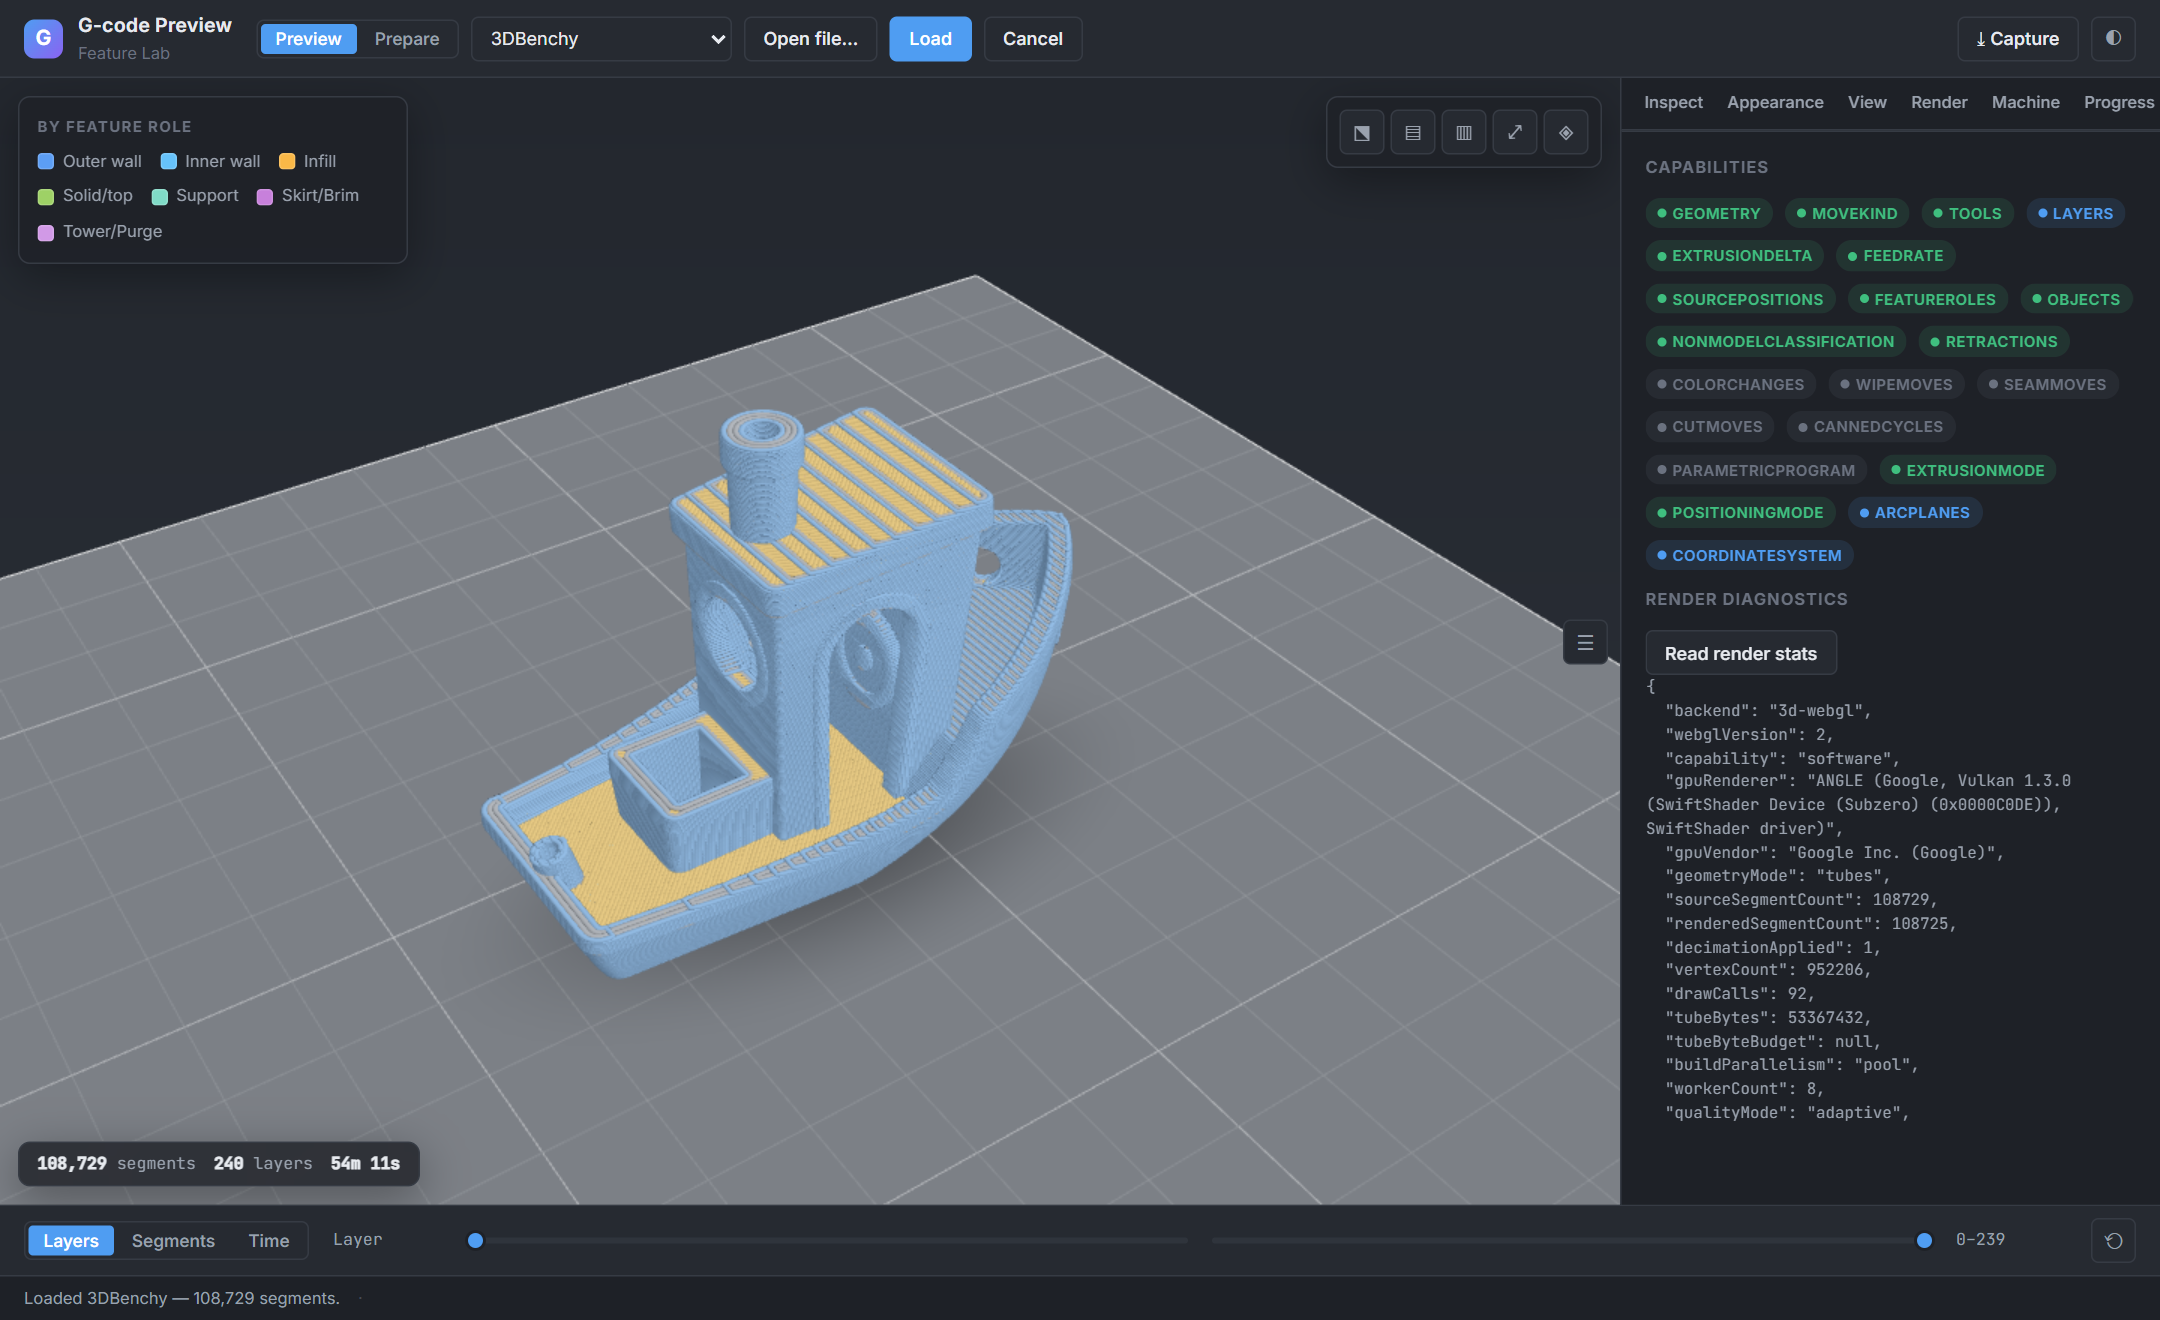
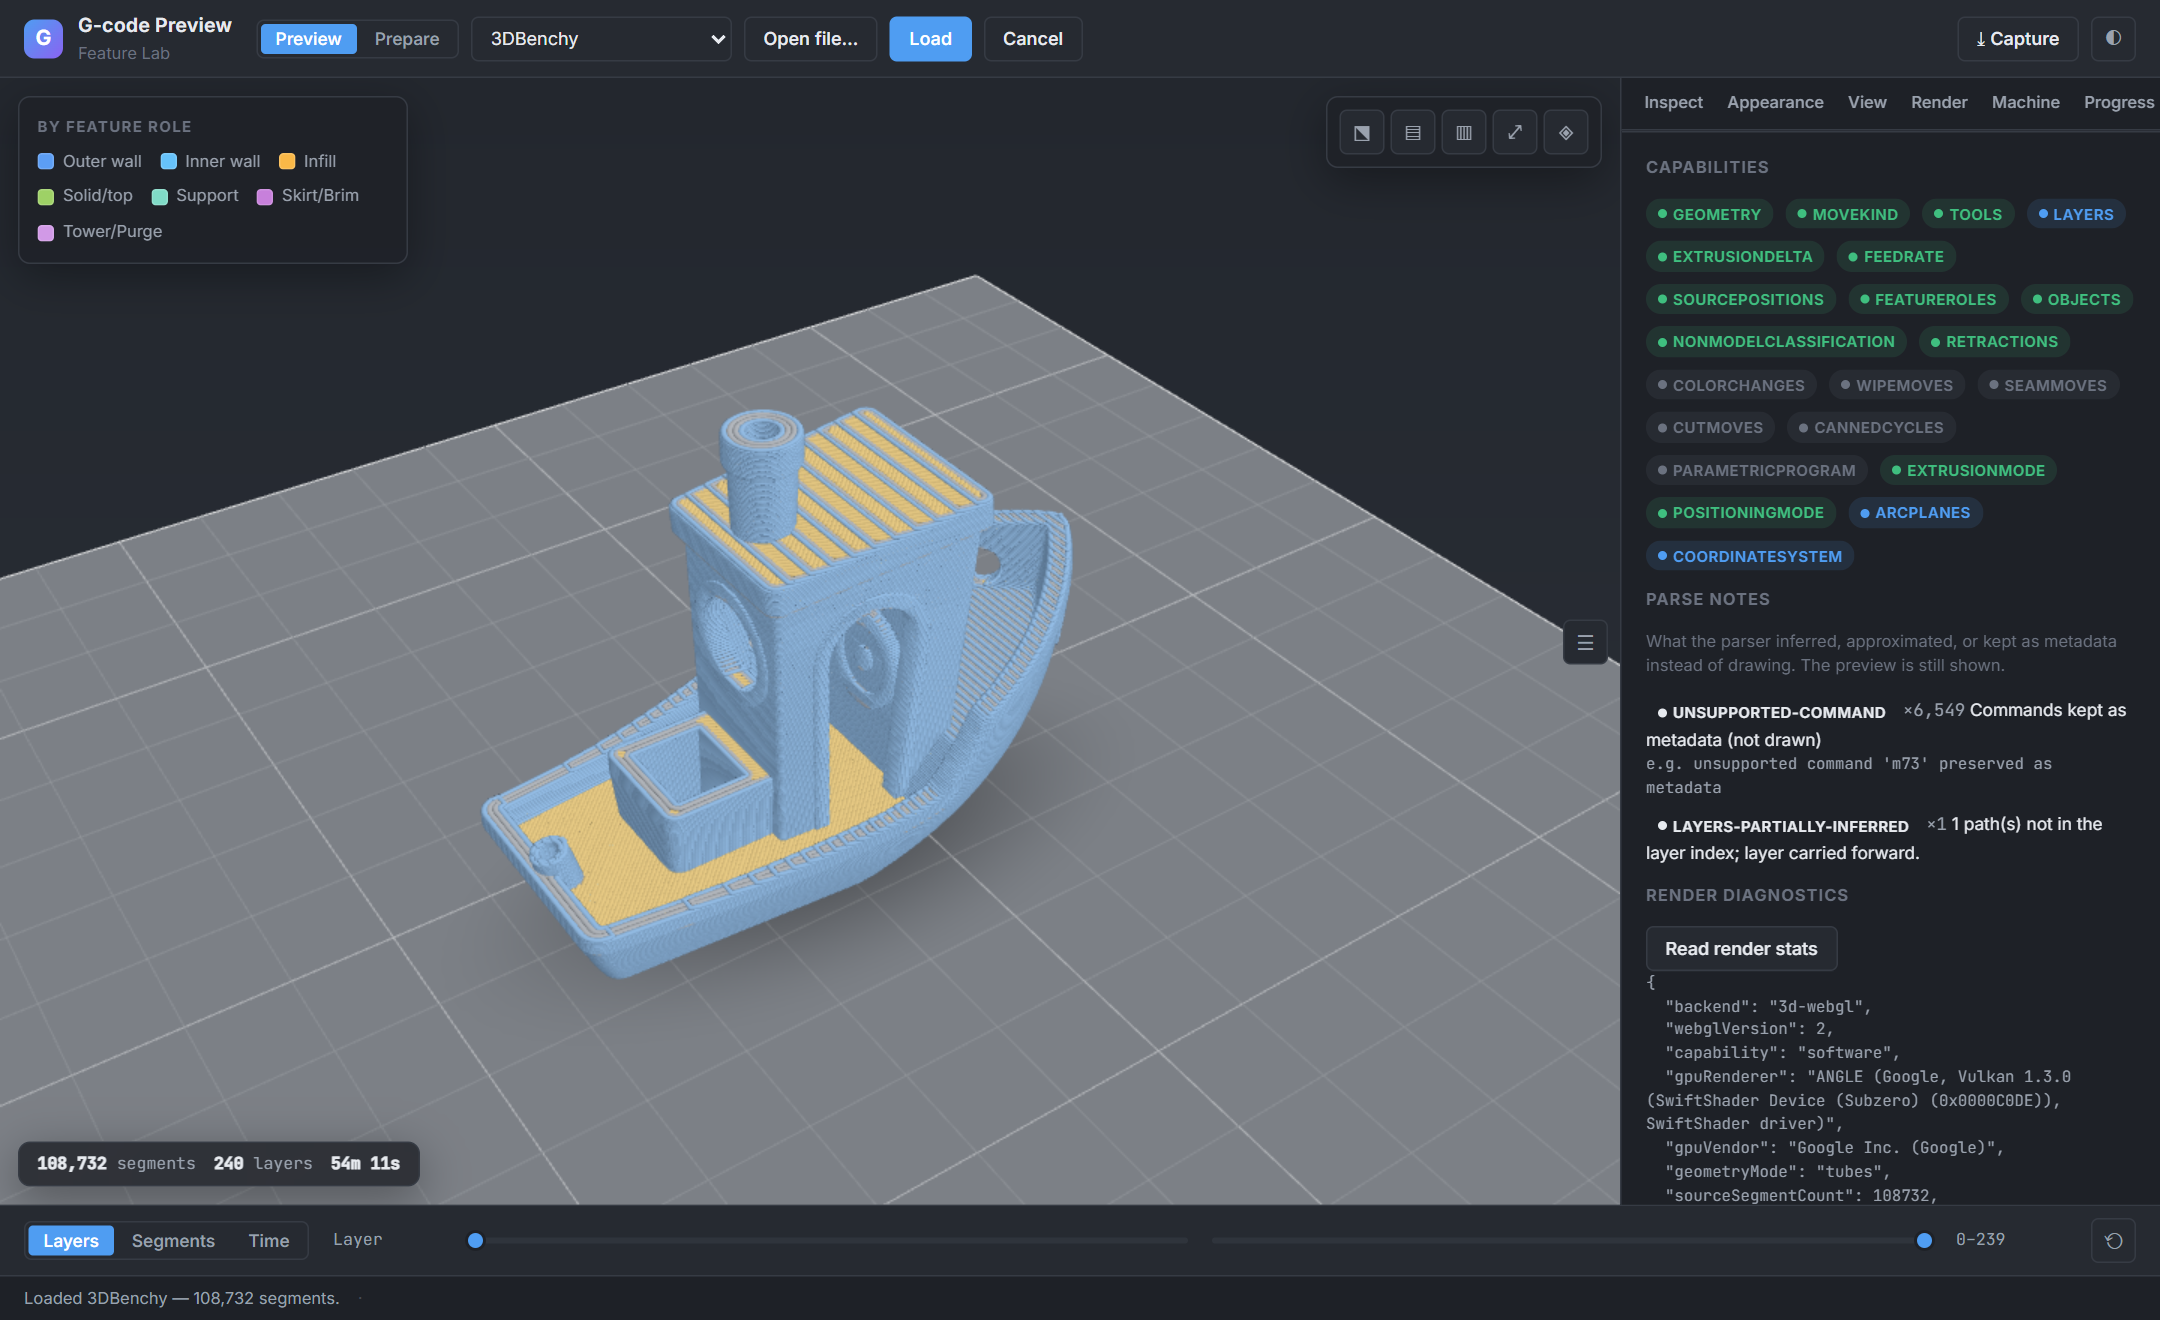
feat(demo): Feature Lab Diagnostics shows parse notes grouped by code
The Diagnostics tab now lists the warnings a parse-complete event carries (parser and
dialect codes): one row per code with a summed count and the first message.
unsupported-command gets a generic label ("Commands kept as metadata (not drawn)") with its
first message as an example, so a count of 6549 next to "m73" doesn't read as 6549 m73s.
Grouping and markup live in the pure tools/demo/src/parse-notes.js, tested by
tools/feature-lab-parse-notes.test.mjs (RED 15/15, control green).

Re-captured app-diagnostics and updated its manifest caption/alt, README, feature gallery
and visual coverage matrix.

diff --git a/tools/demo/src/parse-notes.js b/tools/demo/src/parse-notes.js
@@ -1,0 +1,61 @@
+/*
+ * Feature Lab "Parse notes": groups the parse warnings a `parse-complete` event carries into one row per
+ * code, for the Diagnostics tab. Pure (no DOM), so the grouping and the markup are unit-tested in Node.
+ *
+ * Honesty wording (USER_FACING_DOCS_STYLE.md): these are notes on what the parser inferred, approximated
+ * or kept as metadata. They are not errors, and the preview is still drawn.
+ */
+
+/** The parser's one code for every command it keeps as metadata instead of drawing (m73, m201, g40 …). */
+export const METADATA_CODE = 'unsupported-command';
+
+const SEVERITY_RANK = { info: 0, warn: 1, error: 2 };
+
+/**
+ * One row per warning code: `{ code, count, severity, label, example }`, most frequent first (ties by
+ * code). `count` sums each warning's own `count`, or 1 when it has none. `severity` is the worst one seen.
+ * The first message is kept: as the label for most codes, and as the example for METADATA_CODE, whose
+ * label is generic because its first message names only one of the commands it counts.
+ */
+export function groupWarnings(warnings) {
+  const byCode = new Map();
+  for (const w of warnings ?? []) {
+    const n = Number.isFinite(w.count) && w.count > 0 ? w.count : 1;
+    const g = byCode.get(w.code);
+    if (g === undefined) {
+      byCode.set(w.code, { code: w.code, count: n, severity: w.severity, message: w.message });
+    } else {
+      g.count += n;
+      if ((SEVERITY_RANK[w.severity] ?? 0) > (SEVERITY_RANK[g.severity] ?? 0)) g.severity = w.severity;
+    }
+  }
+  return [...byCode.values()]
+    .sort((a, b) => b.count - a.count || (a.code < b.code ? -1 : a.code > b.code ? 1 : 0))
+    .map(({ code, count, severity, message }) =>
+      code === METADATA_CODE
+        ? { code, count, severity, label: 'Commands kept as metadata (not drawn)', example: message }
+        : { code, count, severity, label: message, example: null }
+    );
+}
+
+export function escapeHtml(s) {
+  return String(s).replace(
+    /[&<>"']/g,
+    (c) => ({ '&': '&amp;', '<': '&lt;', '>': '&gt;', '"': '&quot;', "'": '&#39;' })[c]
+  );
+}
+
+/** Markup for the Parse notes list. `formatCount` is the demo's locale number format. */
+export function renderParseNotes(groups, formatCount = String) {
+  if (groups.length === 0) return '<p class="gp-hint">No parse notes for this file.</p>';
+  const rows = groups.map((g) => {
+    const badge = g.severity === 'error' ? 'gp-badge gp-unavailable' : 'gp-badge';
+    const example = g.example === null ? '' : ` <span class="gp-note-eg">e.g. ${escapeHtml(g.example)}</span>`;
+    return (
+      `<li><span class="${badge}" title="severity: ${escapeHtml(g.severity)}">${escapeHtml(g.code)}</span>` +
+      ` <span class="gp-note-count">×${escapeHtml(formatCount(g.count))}</span>` +
+      ` <span class="gp-note-text">${escapeHtml(g.label)}</span>${example}</li>`
+    );
+  });
+  return `<ul class="gp-notes">${rows.join('')}</ul>`;
+}

diff --git a/tools/demo/index.html b/tools/demo/index.html
@@ -305,6 +305,26 @@
         max-height: 300px;
         overflow: auto;
       }
+      .gp-notes {
+        list-style: none;
+        margin: 0;
+        padding: 0;
+        display: grid;
+        gap: var(--gp-space-2);
+        font-size: 11.5px;
+        line-height: 1.45;
+      }
+      .gp-notes .gp-note-count {
+        font-family: var(--gp-mono);
+        color: var(--gp-text-muted);
+      }
+      .gp-notes .gp-note-eg {
+        display: block;
+        font-family: var(--gp-mono);
+        font-size: 10.5px;
+        color: var(--gp-text-muted);
+        overflow-wrap: anywhere;
+      }
       .gp-panel[hidden] {
         display: none;
       }
@@ -613,6 +633,12 @@
             <section class="gp-panel" data-panel="diagnostics" hidden>
               <h3>Capabilities</h3>
               <div id="capBadges" class="gp-row" style="margin-bottom: var(--gp-space-3)"></div>
+              <h3>Parse notes</h3>
+              <p class="gp-hint">
+                What the parser inferred, approximated, or kept as metadata instead of drawing. The preview is still
+                shown.
+              </p>
+              <div id="parseNotes" style="margin-bottom: var(--gp-space-3)"><p class="gp-hint">Load a file to see its parse notes.</p></div>
               <h3>Render diagnostics</h3>
               <button class="gp-btn" id="showStats">Read render stats</button>
               <pre id="renderStats">Load a file, then read the render stats (backend, GPU, geometry, timings).</pre>

diff --git a/tools/demo/src/main.js b/tools/demo/src/main.js
@@ -29,6 +29,7 @@ import {
   placementLine
 } from '../../demo-kit/index.js';
 import { downloadToolpathStl } from './stl-export.js';
+import { groupWarnings, renderParseNotes } from './parse-notes.js';
 
 const els = {};
 for (const el of document.querySelectorAll('[id]')) els[el.id] = el;
@@ -354,6 +355,7 @@ preview.onEvent((e) => {
   switch (e.type) {
     case 'parse-started':
       fileBytes = e.bytes;
+      els.parseNotes.innerHTML = '<p class="gp-hint">Parsing…</p>';
       break;
     case 'parse-progress':
       els.progress.value = e.progress.totalBytes ? e.progress.bytesProcessed / e.progress.totalBytes : 0;
@@ -369,6 +371,7 @@ preview.onEvent((e) => {
     case 'parse-complete':
       capabilities = e.capabilities ?? {};
       applyContext();
+      els.parseNotes.innerHTML = renderParseNotes(groupWarnings(e.warnings), count);
       break;
     case 'machine-geometry-discovered':
       showMachine(e.machine);

diff --git a/docs/VISUAL_FEATURE_COVERAGE.md b/docs/VISUAL_FEATURE_COVERAGE.md
@@ -73,6 +73,8 @@ workers concept page.
   after (skirt ring present vs gone). In the gallery.
 - `getRenderStats` diagnostics in-context — **captured**: `app-diagnostics` (the Feature Lab Diagnostics tab
   reading capabilities/backend/GPU/geometry/counts/timings beside the render). In the gallery.
+- Parse notes in-context — **captured**: the same `app-diagnostics` shot shows the parse warnings of a
+  `parse-complete` event grouped by code with a count and the first message. In the gallery.
 
 Genuinely deferred, each with a recorded reason (valid dispositions, not silent omissions):
 
@@ -212,6 +214,7 @@ are now closed:
 | Disclosed decimation / degradation | ✅ | ✅ (disclosure) | — | ✅ (prose) | gallery | concept-workers | needs screenshot (disclosure text) |
 | 2D unsupported-setting notice (`renderer-unsupported` event, #520) | ✅ | ❌ (Feature Lab is 3D-only) | — | — | — | adapters | not visually meaningful: an event with a text message, no 3D view to show; documented in the adapters events table |
 | Render diagnostics (`getRenderStats`) | ✅ | ✅ (panel) | `app-diagnostics` | ✅ | gallery | concept-workers | covered — current Feature Lab Diagnostics tab (capability badges + stats) in the gallery |
+| Parse notes (parser + dialect warnings, grouped by code) | ✅ | ✅ (Diagnostics tab) | `app-diagnostics` | ✅ | gallery | concept-ir-capabilities | covered — Feature Lab Diagnostics tab lists each warning code with a count and its first message; `unsupported-command` gets a generic label with the first message as an example |
 | Geometry worker pool (parallel tubes) | ✅ | ❌ | — | mention | gallery | concept-workers | not visually meaningful (diagnostics panel proxies it) |
 | WebGL context-loss recovery | ✅ | ❌ | — | mention | — | — | not visually meaningful |
 
@@ -262,7 +265,7 @@ are now closed:
 | Cut vs rapid classification | ✅ | validate page | `cnc-cut-vs-rapid` | ✅ | gallery (CNC) | motion-coverage | needs better coverage (legend/context) |
 | Tool power channel (laser/RPM) | ✅ | validate page | — | mention | gallery (CNC) | — | needs demo exposure + needs screenshot |
 | Canned drilling cycles (G81/82/83) | ✅ | ❌ | — | mention | gallery (CNC) | motion-coverage | needs screenshot |
-| Arc / canned-cycle drawing warnings (`arc-radius-too-small`, `canned-cycle-plane`, …, #553) | ✅ | validate page (All parser warnings) | — | — | — | motion-coverage | not visually meaningful: warning text in `ir.header.warnings`; the drawn approximation looks like an ordinary arc or cycle |
+| Arc / canned-cycle drawing warnings (`arc-radius-too-small`, `canned-cycle-plane`, …, #553) | ✅ | validate page (All parser warnings), Feature Lab Diagnostics (Parse notes) | `app-diagnostics` (as notes) | — | — | motion-coverage | not visually meaningful: warning text in `ir.header.warnings`; the drawn approximation looks like an ordinary arc or cycle |
 | `( … )` comments ignored on plain lines (#544) | ✅ | ❌ | — | — | — | motion-coverage | not visually meaningful: a parse correctness fix (no stray move), nothing new to show |
 | Validation tiers (validated vs experimental) | ✅ | validate page | — | ✅ (prose) | gallery (CNC) | compatibility | not visually meaningful (prose/table) |
 | Parametric RS274NGC programs (params/expr/O-word/subs) | ✅ | ✅ (fixture) | `parametric-bolt-circle` | ✅ | gallery (CNC) | concept-parametric-programs | covered — demo fixture + media + README + gallery (program paired with geometry) |

diff --git a/docs/manual/feature-gallery.md b/docs/manual/feature-gallery.md
@@ -39,7 +39,7 @@ source model (Prepare), each with real controls:
 
 | Color modes, capability-gated | Render diagnostics & capabilities |
 |---|---|
-| ![The Feature Lab Appearance tab: a color-by selector with the active feature-role legend; unsupported modes greyed out](../media/app-appearance.png) | ![The Feature Lab Diagnostics tab: capability badges and getRenderStats output](../media/app-diagnostics.png) |
+| ![The Feature Lab Appearance tab: a color-by selector with the active feature-role legend; unsupported modes greyed out](../media/app-appearance.png) | ![The Feature Lab Diagnostics tab: capability badges, parse notes and getRenderStats output](../media/app-diagnostics.png) |
 
 ## Studio look, lens & plate
 
@@ -131,11 +131,12 @@ clean `hold` reveal**, staged preparation progress, and **`getRenderStats()`** d
 hardware-vs-software GPU, draw calls, timings — never fabricated). See
 [workers, streaming & performance](concept-workers.md).
 
-![The Feature Lab Diagnostics tab: capability confidence badges and getRenderStats() output beside the render — backend 3d-webgl (WebGL 2), software ANGLE/SwiftShader GPU, geometry tubes, segment and draw-call counts, vertex count, tube bytes, worker pool, and timings](../media/app-diagnostics.png)
+![The Feature Lab Diagnostics tab beside the render: capability confidence badges, parse notes for a 3DBenchy (6,549 commands kept as metadata and not drawn, 1 path whose layer was inferred), and getRenderStats() output — backend 3d-webgl (WebGL 2), software ANGLE/SwiftShader GPU, geometry tubes and segment counts](../media/app-diagnostics.png)
 
-*`getRenderStats()` in context — every value read from the actual render, never fabricated; here
-reporting a software (SwiftShader) backend, `108,725 / 108,729` segments, 92 draw calls, and the
-build/first-frame timings.*
+*The Diagnostics tab in context. **Parse notes** group the `parse-complete` event's warnings by code:
+here 6,549 commands the Benchy file carries (such as `M73` progress) kept as metadata and not drawn, and
+one path whose layer was inferred. Below them, `getRenderStats()` reports values read from the actual
+render, never fabricated: here a software (SwiftShader) backend and tube geometry.*
 
 ## Cameras, framing & capture
 

diff --git a/README.md b/README.md
@@ -47,7 +47,7 @@ The controls and capabilities are front-and-centre, not hidden behind a render:
 
 | Color modes, capability-gated | Render diagnostics & capabilities |
 |---|---|
-| ![The Appearance tab: a color-by selector (single / tool / feature / speed / object / layer height) with the active feature-role legend; modes the file can't support are greyed out](docs/media/app-appearance.png) | ![The Diagnostics tab: capability confidence badges and getRenderStats() output — backend, GPU, geometry mode, segment and draw-call counts, worker pool](docs/media/app-diagnostics.png) |
+| ![The Appearance tab: a color-by selector (single / tool / feature / speed / object / layer height) with the active feature-role legend; modes the file can't support are greyed out](docs/media/app-appearance.png) | ![The Diagnostics tab: capability confidence badges, parse notes grouped by code (commands kept as metadata, layers inferred), and getRenderStats() output — backend, GPU, geometry mode, segment counts](docs/media/app-diagnostics.png) |
 
 You can drive all of this yourself in the **[live demos](https://chestnutlabs.github.io/gcode-preview/demos/)**. A cropped beauty render — the same engine, no UI:
 
